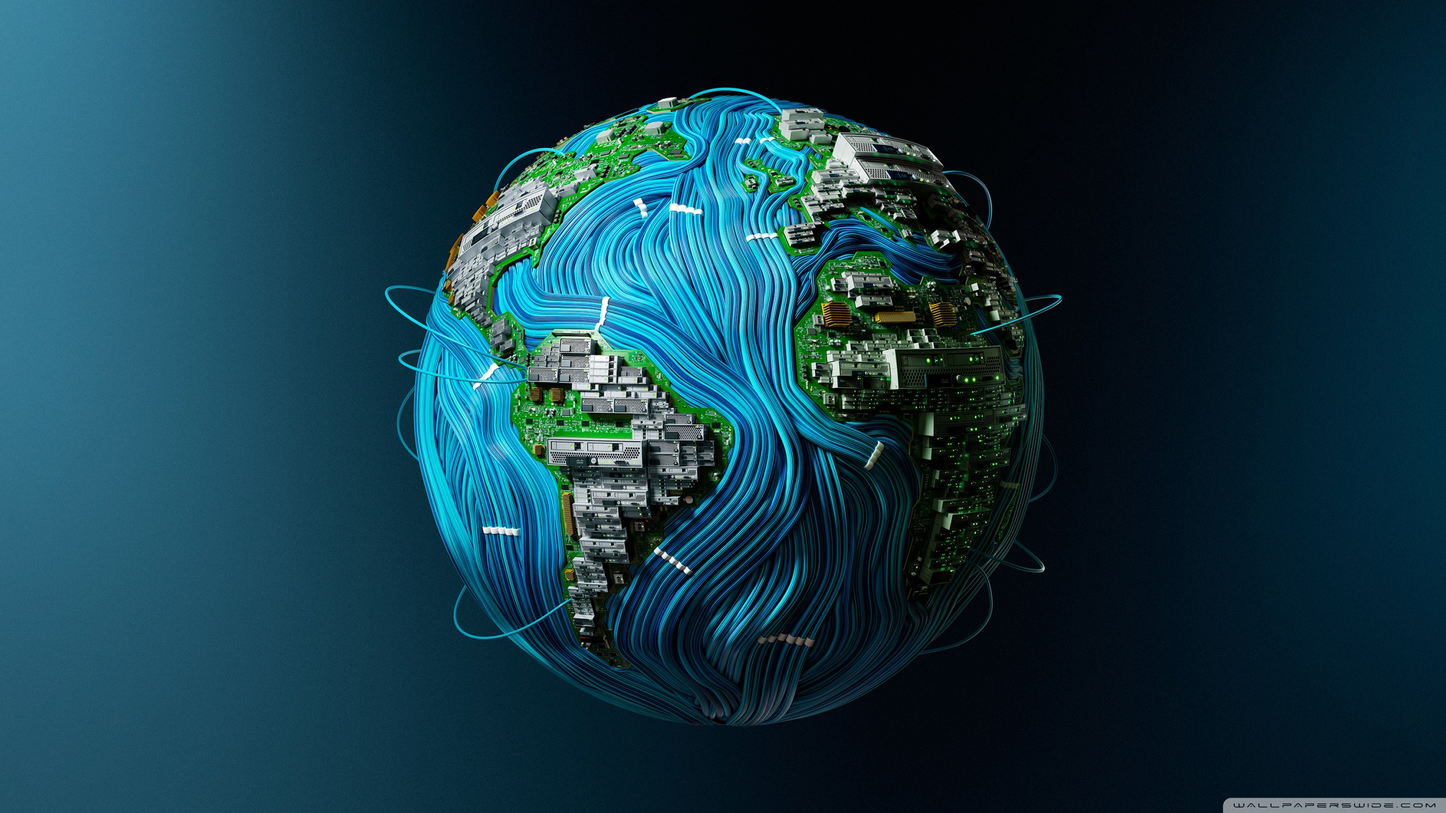
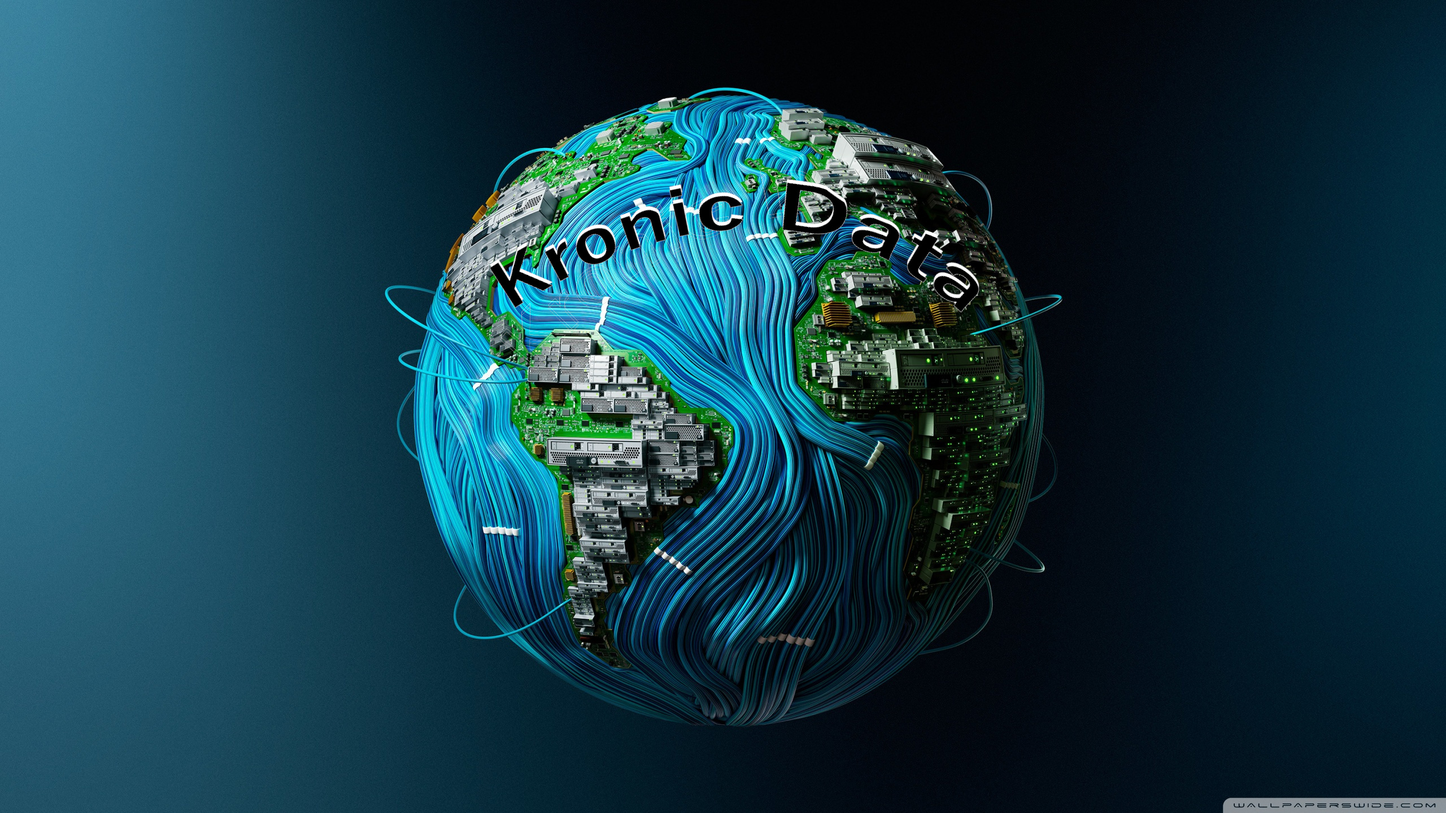
Updated 3/23/2022, Version 2.4. Minor ui changes

Changed region(s): [[0.3438, 0.2188, 0.6875, 0.375], [0.3438, 0.4062, 0.375, 0.4375]]

diff --git a/index.html b/index.html
@@ -43,6 +43,7 @@ body {font-family: "Lato", sans-serif}
                             window.open('ResumeJWv2.pdf', '_blank').focus();
                             }
                             </script>
+                            <h3 style="padding-right:915px; float:right;">Kronic Data</h3>
     <div class="w3-dropdown-hover w3-hide-small">
       <button class="w3-padding-large w3-button" title="More">Contact Me<i class="fa fa-caret-dow"></i></button>
       <div class="w3-dropdown-content w3-bar-block w3-card-4">
@@ -141,7 +142,7 @@ scroll-snap-stop: always;
   position: relative;
 }
 .vertical div.snap h3 {position:absolute; bottom:210px; width:400px; padding:10px; left:calc(50% - 200px); color:#000; text-align:center; font:400 20px/25px arial, sans-serif; background:#fff; border-radius:10px;font-family: 'Courier New', monospace;}
-.vertical div.stick h1 {position:absolute; padding:0; margin:0; bottom:20px; left:calc(50% - 160px); width:320px; background:#fff; text-align:center; font:600 45px/90px arial, sans-serif; border-radius:10px 10px 0 0; color:#000;font-family: Garamond, serif;}
+.vertical div.stick h1 {position:absolute; padding:0; margin:0; bottom:30px; left:calc(50% - 160px); width:320px; background:#fff; text-align:center; font:600 45px/90px arial, sans-serif; border-radius:10px 10px 0 0; color:#000;font-family: Garamond, serif;}
 .vertical div.snap .info {width:95%; max-width:700px; position:absolute; left:50%; top:50%; transform:translate(-50%, -50%); border-radius:50px; padding:30px;font-family: Garamond, serif;}
 .vertical div.snap .info h1 {padding:0px; margin:0px; font:600 100px/170px arial, sans-serif; color:#fff; text-align:center;font-family: Garamond, serif;}
 .vertical div.snap .info p {font:300 40px/60px arial, sans-serif; color:#fff;font-family: Garamond, serif;}
@@ -164,14 +165,14 @@ function cb(response) {
 
 <center>
          <div class="vertical" style="overflow-y: scroll;">
-       			<div class="stick"><img src="images/image.jpg"></div>
-            <div class="snap" ><div class="info" style="background-color:rgba(0, 0, 0, 0.5);"><h1>ABLOG</h1>
+       			<div class="stick"><img src="images/original.jpg"></div>
+            <div class="snap" ><div class="info"><h1>A-BLOG</h1>
             <p>By James Wolfe</p>
             <div><img src="images/icon.jpg" style="float:left; display:inline-block; margin-left:235px;margin-bottom:20px;"></div>
             <div id="visits" style="float:left;text-align:center; padding-top:10px;">...</div></p>
+
             </div>
           </div>
-
 
 
             <div class="stick"><h1>ABOUTME</h1></div><div class="snap"><h3>I'm a passioante computer science major with years of computer technology expierince with a enthusiastic look on learning every time I start something new. Fleshing out; developing, and publishing websites is fun for me and I can utilize neat services like the AWS Cloud and Github pages. My creative and problem-solving side is a great fit for technical professions. If you believe I could be a great fit for your team I would love to have a chat with you about potential opportunities, please email or message me on any social media platforms I provided.
